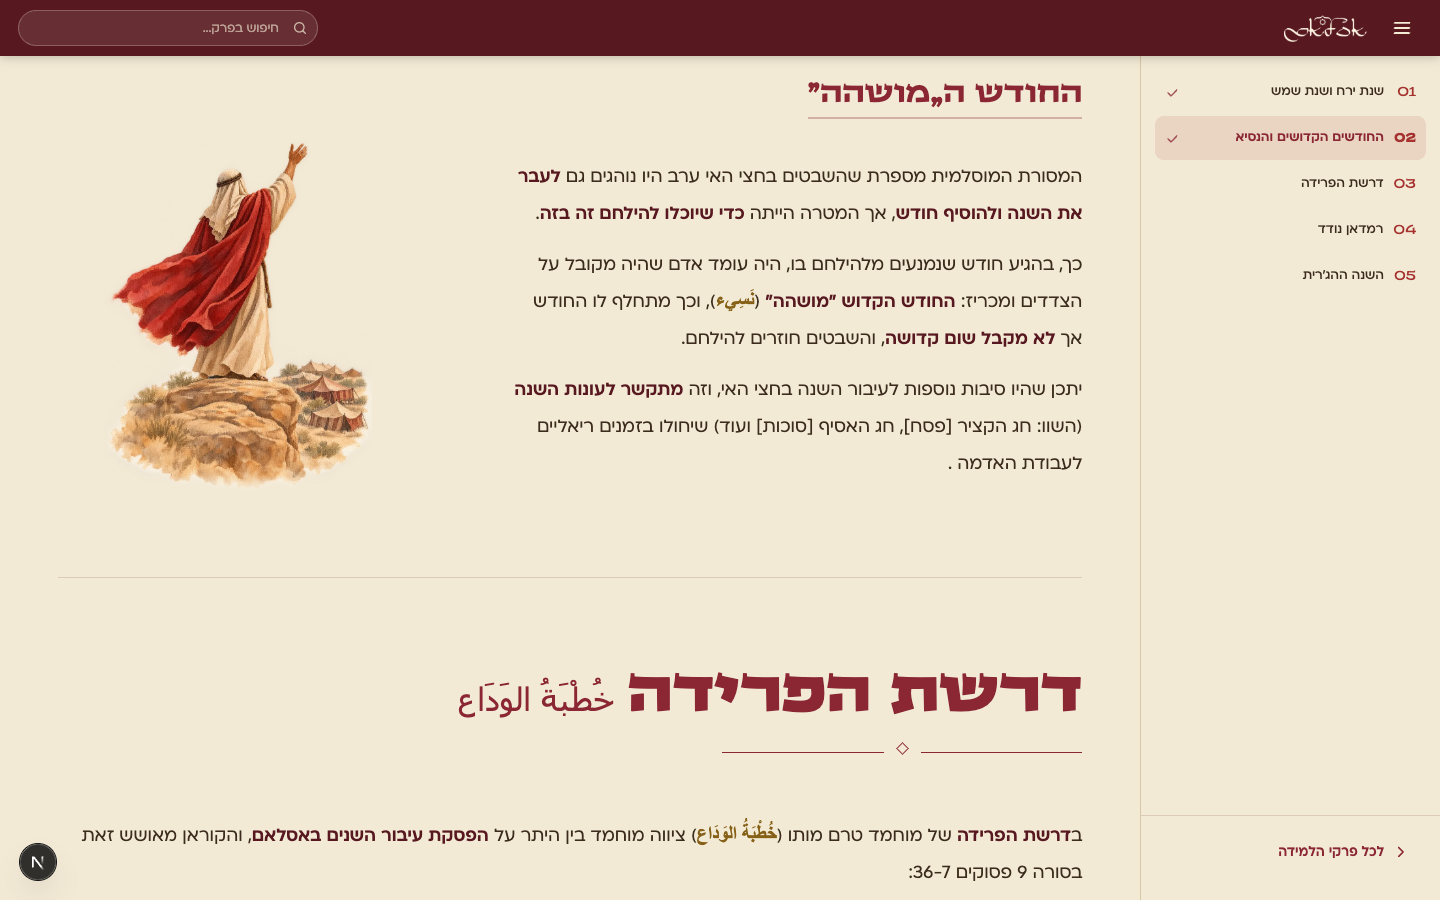
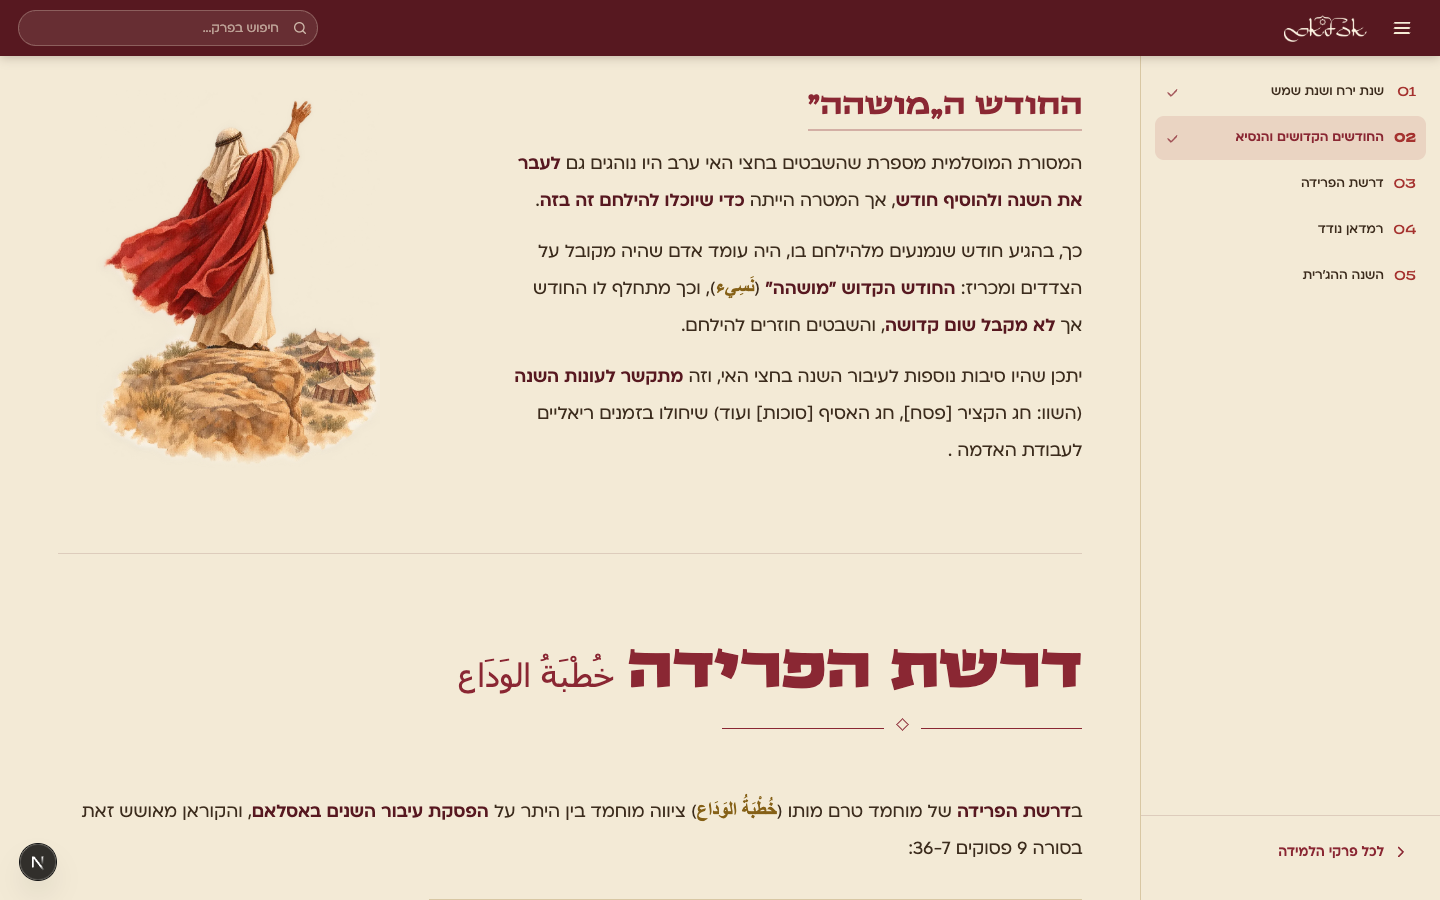
פרק 7 · ריווחים: כל סוג מעבר מקבל ערך אחד, נמדד מול פרקים 5 ו-6
הציורים לצד הטקסט: כותרת המשנה נכנסה לעמודת הטקסט ורצפת הגובה ירדה, כך שהרווח
מתחת לכותרת הוא 14 (היה 39–102) ולפני הכותרת הבאה 86 (היה 141–160). המנגנונים
מקבלים 32 משני הצדדים (היה 56 מעל ו-14 מתחת). נמדד ב-1440, 820 ו-390 עם
scripts/ch7-spacing.mjs.

diff --git a/web/src/styles/chapter7-article.css b/web/src/styles/chapter7-article.css
@@ -24,18 +24,36 @@
 /* the paintings beside the prose: chapter 6's `.bleed-aside` with chapter 3's lower
    floor — these runs are three paragraphs, not a long sequence, and at the shared
    floor (520–880) the row stood two hundred pixels taller than its words */
+/* THE ROW IS AS TALL AS ITS WORDS. The shared device gives the painting a height floor
+   and centres the words in it; here that floor (360px against runs of 200–300) put empty
+   paper above and below every run — measured 39–102px under the sub-heading instead of
+   14, and 141–160 before the next one instead of 86. So: no floor, the words start at
+   the top, and the painting is fitted to the height they set. */
+.ch7-aside{margin-top:var(--flow-part)}
+.chapter-article .ch7-aside .bleed-aside-body > .scrolly-env:first-child{margin-top:0}
+/* the text column is a flex column, where margins do not collapse: the heading's own
+   bottom margin was adding to the paragraph's 14 and measured 26 */
+.chapter-article .ch7-aside .bleed-aside-body > .scrolly-env{margin-bottom:0}
+.chapter-article .ch7-aside .bleed-aside-body > .scrolly-env + p{margin-top:var(--flow-tight)!important}
 @media (min-width:900px){
-  .ch7-aside .bleed-aside-art{min-height:clamp(320px,40vh,440px)}
+  .ch7-aside .bleed-aside-art{min-height:0}
+  .ch7-aside .bleed-aside-body{justify-content:flex-start}
 }
 
 /* the question that opens the 30th night — the source asks it, so it is set as one */
 .ch7-ask{font-family:var(--font-heading);font-weight:700;font-size:var(--sub);color:var(--maroon)}
-.ch7-coda{margin-top:var(--flow-part)!important;padding-top:18px;border-top:1px solid var(--rule);color:var(--muted)}
+.ch7-coda{margin-top:var(--flow-lead)!important;padding-top:14px;border-top:1px solid var(--rule);color:var(--muted)}
 
 /* ================================ devices ================================
    Narrower than the prose and centred (rule 48). Each device is a <figure> or a
    <div> that carries `data-reveal`; every state class sits on its `-in` child. */
-.ch7-days,.ch7-feb,.ch7-night,.ch7-verses,.ch7-wheel{margin:var(--flow-lead) auto 0}
+.ch7-days,.ch7-feb,.ch7-night,.ch7-verses,.ch7-wheel,.ch7-pair{margin:var(--flow-dev) auto 0}
+/* ONE GAP AROUND A DEVICE, THE SAME ABOVE AND BELOW. It was 56 above and 14 below — a
+   figure that floated off the sentence that introduces it and then pressed into the one
+   that follows. Chapter 5 sets 14–26 around its devices and chapter 6 about 30. */
+:root{--flow-dev:32px}
+.chapter-article :is(.ch7-days,.ch7-feb,.ch7-night,.ch7-pair,.ch7-wheel) + p{margin-top:var(--flow-dev)!important}
+.chapter-article .scrolly-env + :is(.ch7-days,.ch7-feb,.ch7-night,.ch7-pair,.ch7-wheel){margin-top:26px}
 
 /* ---- 01 · the year in days ---- */
 .ch7-days{width:min(880px,100%)}
@@ -112,11 +130,11 @@
 }
 
 /* ---- 03 · the farewell sermon: the verses, and the pilgrims beside them ---- */
-.ch7-farewell{display:grid;grid-template-columns:minmax(0,1fr) clamp(240px,32%,380px);gap:clamp(20px,3vw,44px);align-items:center;margin-top:var(--flow-lead)}
+.ch7-farewell{display:grid;grid-template-columns:minmax(0,1fr) clamp(240px,32%,380px);gap:clamp(20px,3vw,44px);align-items:center;margin-top:var(--flow-dev)}
 .ch7-farewell .ch7-verses{margin-top:0}
 .ch7-farewell-art img{display:block;width:100%;height:auto}
 @media (max-width:900px){ .ch7-farewell{grid-template-columns:1fr} .ch7-farewell-art{display:none} }
-.ch7-verses{width:100%;margin-top:var(--flow-lead)}
+.ch7-verses{width:100%}
 .ch7-verses-in{border-block:1px solid var(--edge);padding:26px clamp(8px,2vw,28px);text-align:center}
 .ch7-verse{margin:0}
 .ch7-verse-he{font-family:var(--font-heading);font-weight:700;font-size:var(--emph)!important;line-height:1.45!important;color:var(--maroon-deep)!important}
@@ -124,7 +142,7 @@
 .ch7-verses-join{margin:22px auto 16px!important;width:fit-content;padding:2px 16px;border-radius:999px;border:1px solid var(--edge);font-size:16px!important;color:var(--muted)!important}
 
 /* ---- 04 · the two schools: two equal cards (rules 36, 51) ---- */
-.ch7-pair{display:grid;grid-template-columns:1fr 1fr;align-items:stretch;gap:16px;width:min(880px,100%);margin:var(--flow-lead) auto 0}
+.ch7-pair{display:grid;grid-template-columns:1fr 1fr;align-items:stretch;gap:16px;width:min(880px,100%)}
 .ch7-card{background:var(--paper);border:1px solid var(--edge);border-radius:16px;padding:20px 24px}
 .ch7-card h4{font-family:var(--font-heading);font-weight:700;font-size:var(--sub);color:var(--maroon);margin:0 0 8px}
 @media (max-width:760px){ .ch7-pair{grid-template-columns:1fr} }

diff --git a/web/src/components/Chapter7.tsx b/web/src/components/Chapter7.tsx
@@ -109,7 +109,11 @@ function Section({ id, className = '', children }: { id: string; className?: str
   )
 }
 
-/** A painting beside the prose — chapter 6's `.bleed-aside`, as chapter 3 uses it. */
+/** A painting beside the prose — chapter 6's `.bleed-aside`, as chapter 3 uses it.
+    The sub-heading goes INSIDE, at the top of the text column, so the painting stands
+    beside the whole movement and the words start under their heading at the chapter's
+    own 14px. With the heading outside and the words centred in a taller painting's row,
+    the gaps measured 39–102 under the heading and 141–160 after the run (11.10). */
 function Aside({ art, children }: { art: string; children: ReactNode }) {
   return (
     <div className="bleed-aside ch7-aside">
@@ -547,18 +551,18 @@ export default function Chapter7() {
               {/* ============ 02 · the sacred months and the nasi' ============ */}
               <Section id="sacred">
                 <Head id="sacred" />
-                <Env id="truce" sectionId="sacred" />
                 <Aside art="cut-rajab">
+                  <Env id="truce" sectionId="sacred" />
                   <T refs={['§1.a', '§1.b']} />
                   <T refs={['§1.c']} />
                 </Aside>
-                <Env id="nasi" sectionId="sacred" />
                 {/* NOT FLIPPED. The mirrored aside put this run on the outer (left) edge while
                     its sub-heading stayed on the reading edge — the words began 456px away
                     from their own heading, and the flip's one-line lift pressed the first line
                     to 3px under it. Measured 11.10; every run in the chapter now starts on the
                     reading edge, under its heading. */}
                 <Aside art="cut-herald">
+                  <Env id="nasi" sectionId="sacred" />
                   <T refs={['§2.a']} />
                   <T refs={['§2.b']} />
                   <T refs={['§2.c']} />
@@ -603,8 +607,8 @@ export default function Chapter7() {
               {/* ============ 05 · the hijri year ============ */}
               <Section id="hijri">
                 <Head id="hijri" />
-                <Env id="year1" sectionId="hijri" />
                 <Aside art="cut-hijra">
+                  <Env id="year1" sectionId="hijri" />
                   <T refs={['§7.a']} />
                   <T refs={['§7.b']} />
                 </Aside>

diff --git a/concept/chapter7/DECISIONS.md b/concept/chapter7/DECISIONS.md
@@ -82,6 +82,23 @@
 4. **גלגל השנה** — אותו דבר, 880. והפירוש ברשימה נשבר עכשיו כטקסט רגיל ולא קופץ
    לשורה משלו.
 
+## סבב ריווחים (11.10) — נמדד מול פרקים 5 ו-6
+
+`web/scripts/ch7-spacing.mjs [רוחב]` מסווג כל מעבר בין שני בלוקים (פסקה→פסקה,
+כותרת→פסקה, פסקה→מנגנון…) ומדפיס את הרווח הנראה. בין פסקאות ובין מקטעים זה כבר היה
+זהה לפרק 5. שלוש סטיות, כולן תוקנו:
+1. **הציורים לצד הטקסט.** לציור הייתה רצפת גובה של 360px והטקסט היה ממורכז מולו, כך
+   שנוצר קלף ריק מעליו ומתחתיו: 39–102 מתחת לכותרת המשנה (צריך 14), ו-141–160 לפני
+   הכותרת הבאה (צריך 86). עכשיו כותרת המשנה **בתוך** עמודת הטקסט, הטקסט מתחיל
+   למעלה, ואין רצפה — הציור מותאם לגובה שהמילים קובעות.
+2. **⚠ שוליים לא מתמזגים בעמודת flex.** עמודת הטקסט של `.bleed-aside` היא flex, ולכן
+   השוליים התחתונים של הכותרת נוספו ל-14 של הפסקה (26). הכותרת שם בלי שוליים תחתונים.
+3. **מנגנונים.** 56 מעל ו-14 מתחת — המנגנון התרחק מהמשפט שמציג אותו ונדחק במשפט
+   שאחריו. עכשיו `--flow-dev` 32 משני הצדדים (פרק 5: 14–26, פרק 6: כ-30), ו-26 אחרי
+   כותרת משנה.
+
+אחרי התיקון, ב-1440, 820 ו-390: כל סוג מעבר מקבל ערך אחד בלבד.
+
 ## שערים
 
 ```
